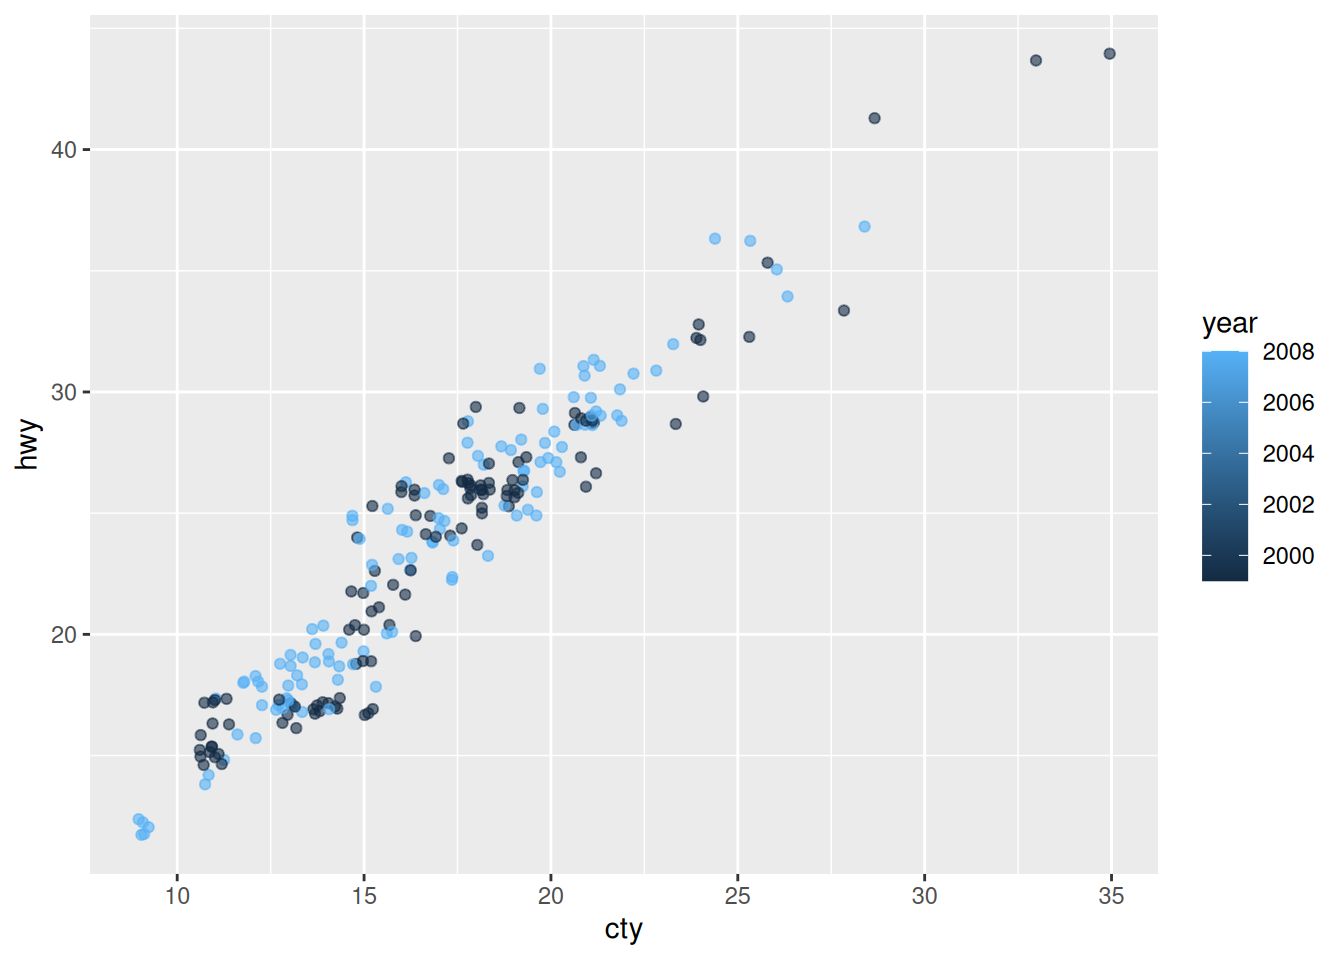
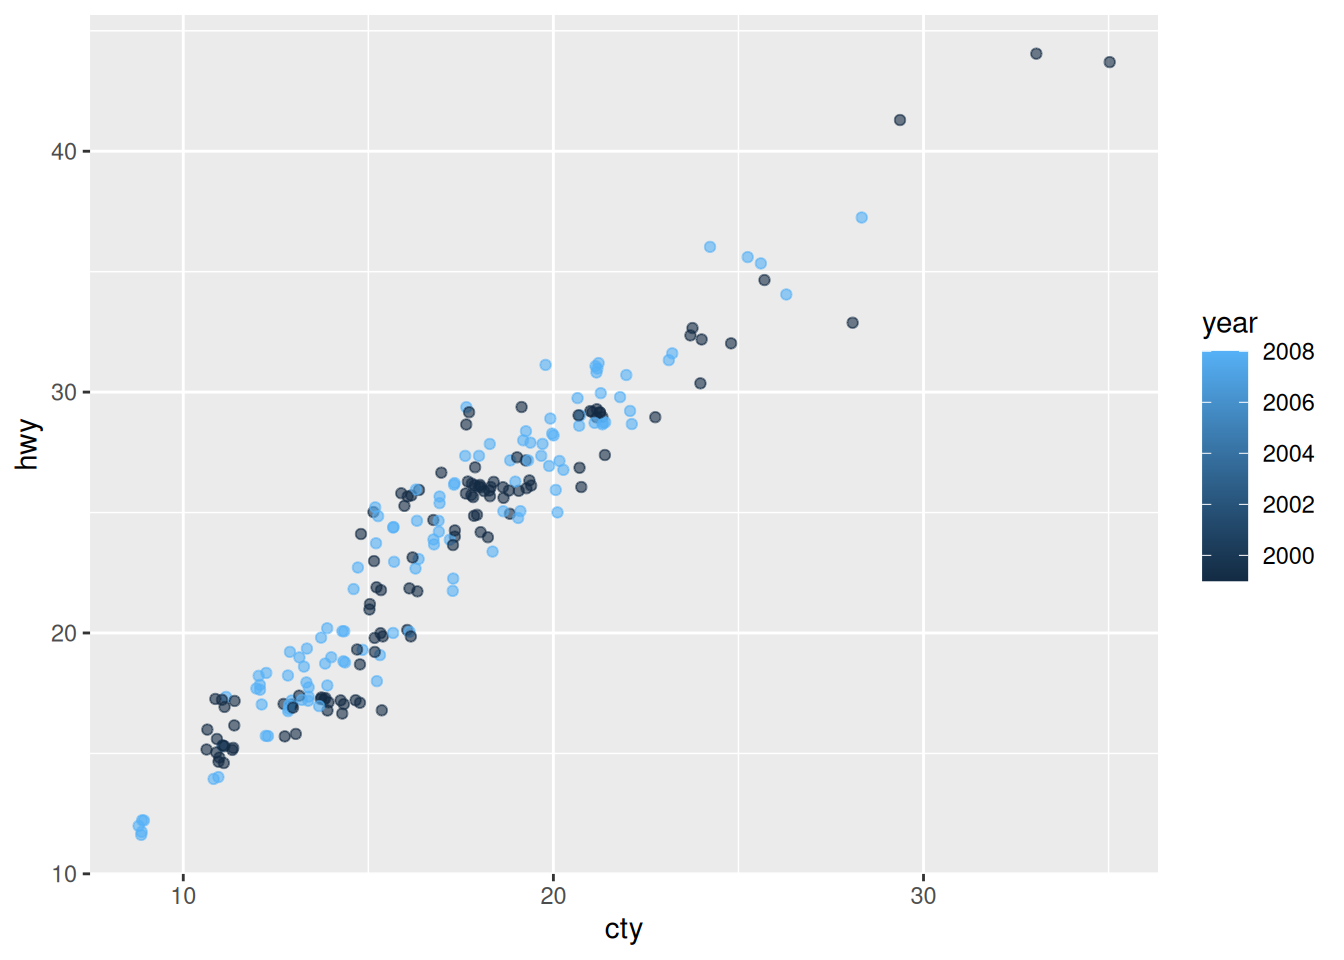
test

diff --git a/docs/posts/ggplot_work/index.html b/docs/posts/ggplot_work/index.html
@@ -257,7 +257,32 @@ pre > code.sourceCode > span > a:first-child::before { text-decoration: underlin
 </div>
 </div>
 <p>Some ways that this graph was improved were the additions of labels on the x-axis and the y-axis. A title was also added, and more increments were added to understand the graph more clearly.</p>
-<p>For the last graph, I will be implementing all the skills I have learned in this course for graph making.</p>
+<p>For the last graph, I will be implementing most of the skills I have learned in this course for graphing.</p>
+<div class="cell">
+<div class="code-copy-outer-scaffold"><div class="sourceCode cell-code" id="cb5"><pre class="sourceCode r code-with-copy"><code class="sourceCode r"><span id="cb5-1"><a href="#cb5-1" aria-hidden="true" tabindex="-1"></a><span class="fu">ggplot</span>(</span>
+<span id="cb5-2"><a href="#cb5-2" aria-hidden="true" tabindex="-1"></a>  <span class="at">data =</span> mpg,</span>
+<span id="cb5-3"><a href="#cb5-3" aria-hidden="true" tabindex="-1"></a>  <span class="at">mapping =</span> <span class="fu">aes</span>(</span>
+<span id="cb5-4"><a href="#cb5-4" aria-hidden="true" tabindex="-1"></a>    <span class="at">x =</span> cty,</span>
+<span id="cb5-5"><a href="#cb5-5" aria-hidden="true" tabindex="-1"></a>    <span class="at">y =</span> hwy,</span>
+<span id="cb5-6"><a href="#cb5-6" aria-hidden="true" tabindex="-1"></a>    <span class="at">color =</span> year,</span>
+<span id="cb5-7"><a href="#cb5-7" aria-hidden="true" tabindex="-1"></a>  ) </span>
+<span id="cb5-8"><a href="#cb5-8" aria-hidden="true" tabindex="-1"></a>) <span class="sc">+</span> <span class="fu">geom_point</span>(<span class="at">position =</span> <span class="st">"jitter"</span>, <span class="at">alpha =</span> <span class="fl">0.4</span>)  <span class="sc">+</span></span>
+<span id="cb5-9"><a href="#cb5-9" aria-hidden="true" tabindex="-1"></a>  <span class="fu">labs</span>(</span>
+<span id="cb5-10"><a href="#cb5-10" aria-hidden="true" tabindex="-1"></a>    <span class="at">title =</span> <span class="st">"MPG while in the City vs Highway"</span>,</span>
+<span id="cb5-11"><a href="#cb5-11" aria-hidden="true" tabindex="-1"></a>    <span class="at">subtitle =</span> <span class="st">"Additional comparison of years of vehicles"</span>,</span>
+<span id="cb5-12"><a href="#cb5-12" aria-hidden="true" tabindex="-1"></a>    <span class="at">x =</span> <span class="st">"City Fuel Economy (mpg)"</span>,</span>
+<span id="cb5-13"><a href="#cb5-13" aria-hidden="true" tabindex="-1"></a>    <span class="at">y =</span> <span class="st">"Highway fuel Economy (mpg)"</span>,</span>
+<span id="cb5-14"><a href="#cb5-14" aria-hidden="true" tabindex="-1"></a>  ) <span class="sc">+</span>  <span class="fu">scale_y_continuous</span>(<span class="at">breaks =</span> <span class="fu">seq</span>(<span class="dv">0</span>, <span class="dv">40</span>, <span class="at">by =</span> <span class="dv">5</span>)) <span class="sc">+</span></span>
+<span id="cb5-15"><a href="#cb5-15" aria-hidden="true" tabindex="-1"></a>  <span class="fu">scale_x_continuous</span>(<span class="at">breaks =</span> <span class="fu">seq</span>(<span class="dv">0</span>, <span class="dv">40</span>, <span class="at">by =</span> <span class="dv">5</span>)) <span class="sc">+</span></span>
+<span id="cb5-16"><a href="#cb5-16" aria-hidden="true" tabindex="-1"></a>  <span class="fu">facet_wrap</span>(<span class="sc">~</span>cyl)</span></code></pre></div><button title="Copy to Clipboard" class="code-copy-button"><i class="bi"></i></button></div>
+<div class="cell-output-display">
+<div>
+<figure class="figure">
+<p><img src="index_files/figure-html/unnamed-chunk-3-1.png" class="img-fluid figure-img" width="672"></p>
+</figure>
+</div>
+</div>
+</div>
 
 
 

diff --git a/docs/index.html b/docs/index.html
@@ -271,7 +271,7 @@ Joshua Matamoros
 </a>
 </div>
 </div>
-<div class="quarto-post image-right" data-index="2" data-categories="cHJvamVjdCUyQ2NvZGU=" data-listing-date-sort="1787097600000" data-listing-file-modified-sort="1787164444920" data-listing-date-modified-sort="NaN" data-listing-reading-time-sort="2" data-listing-word-count-sort="276">
+<div class="quarto-post image-right" data-index="2" data-categories="cHJvamVjdCUyQ2NvZGU=" data-listing-date-sort="1787097600000" data-listing-file-modified-sort="1787165103012" data-listing-date-modified-sort="NaN" data-listing-reading-time-sort="2" data-listing-word-count-sort="380">
 <div class="thumbnail"><a href="./posts/ggplot_work/index.html" class="no-external">
 
 <p class="card-img-top"><img src="posts/ggplot_work/index_files/figure-html/unnamed-chunk-1-1.png"  class="thumbnail-image card-img"/></p>
